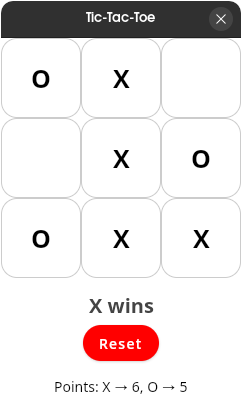
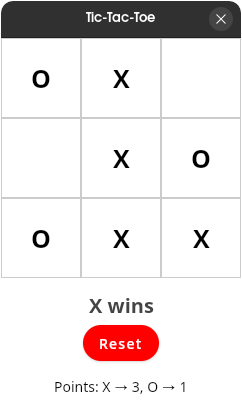
Remove rounded corner shape Update Screenshot.png Update build.gradle.kts & settings.gradle.kts

diff --git a/src/jvmMain/kotlin/Main.kt b/src/jvmMain/kotlin/Main.kt
@@ -46,7 +46,7 @@ fun TicTacToeApp() {
                     modifier = Modifier
                         .width(80.dp)
                         .height(80.dp)
-                        .border(width = 1.dp, color = Color.LightGray, shape = RoundedCornerShape(20))
+                        .border(width = 1.dp, color = Color.LightGray)
                         .onClick {
                             if (board[i] == ' ' && !isDone) {
                                 board[i] = currentPlayer
